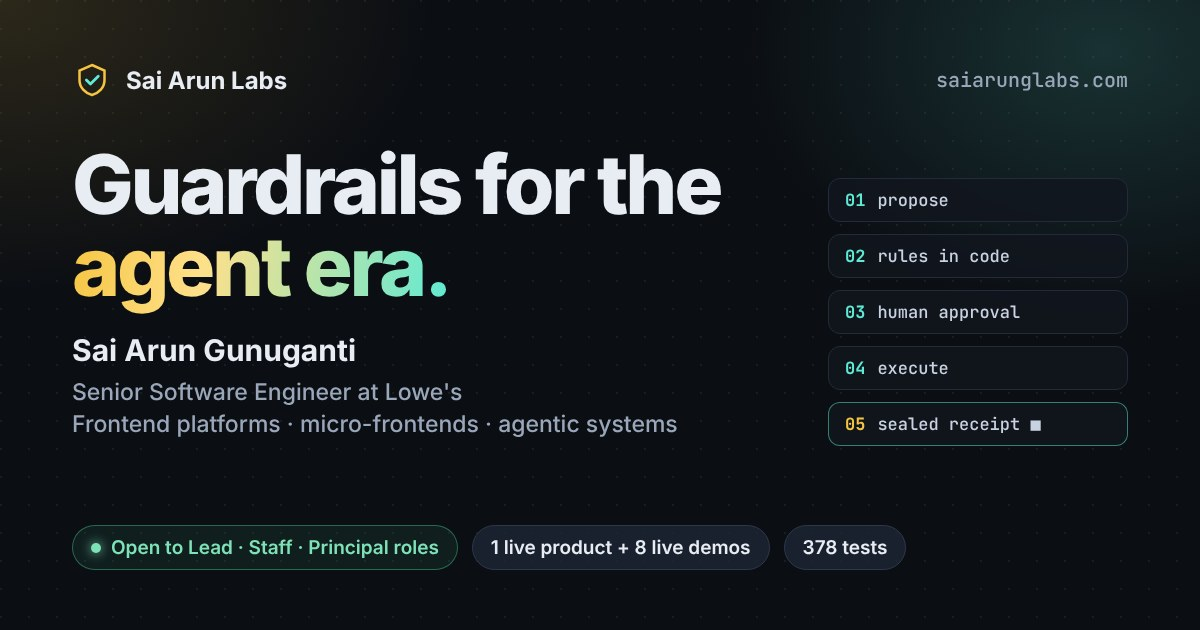
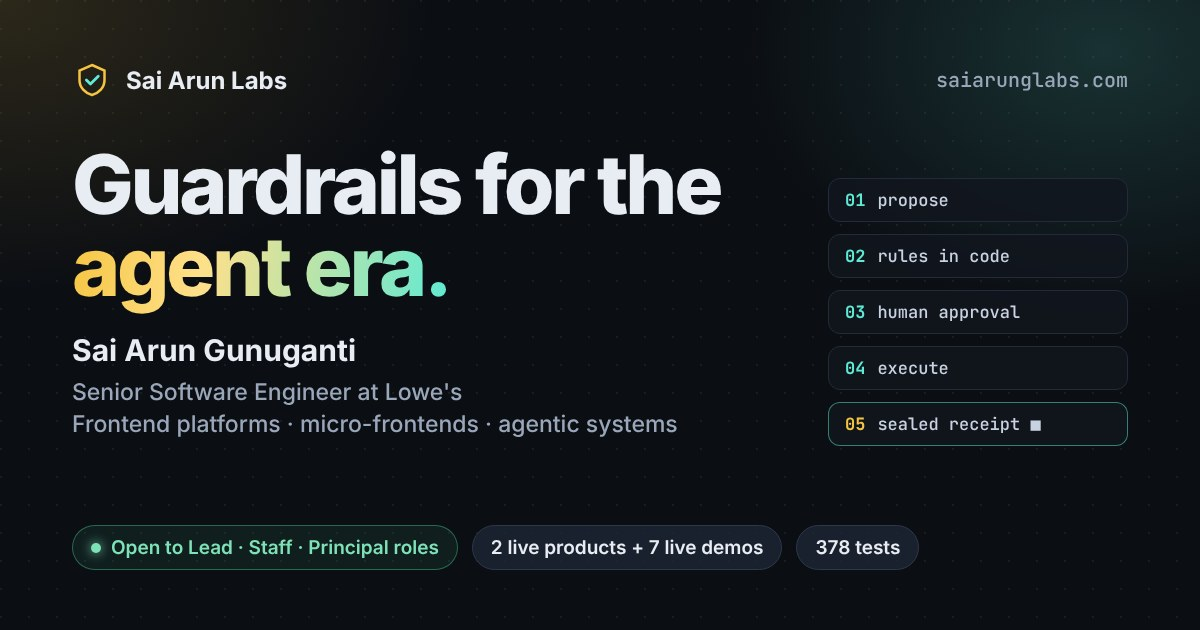
JobProof: archive card now describes the live product (early access)
- Card: Angi lead-credit tracker, live product and free checker links, 61 tests
- Archive intro, footer and stats (2 live products + 7 demos) updated
- Link preview image regenerated with the new counts

Claude-Session: https://claude.ai/code/session_01HzHLZjxcvi9w3Y5BZCGHBb

Changed region(s): [[0.4008, 0.8143, 0.7708, 0.9048]]

diff --git a/index.html b/index.html
@@ -354,7 +354,7 @@
     <div class="stat"><div class="n" data-count="20" data-suffix="+">20+</div><div class="l">Lowe's teams integrate the Customer Lookup MFE I own</div></div>
     <div class="stat"><div class="n" data-count="378">378</div><div class="l">tests across eight sector products, all passing</div></div>
     <div class="stat"><div class="n" data-count="6">6</div><div class="l">agent-framework integrations for Sealgraf, live-tested end-to-end</div></div>
-    <div class="stat"><div class="n"><span data-count="1">1</span><small> + </small><span data-count="8">8</span></div><div class="l">live product + live public demos</div></div>
+    <div class="stat"><div class="n"><span data-count="2">2</span><small> + </small><span data-count="7">7</span></div><div class="l">live products + live public demos</div></div>
   </div>
 
   <section id="lowes" class="reveal">
@@ -627,17 +627,19 @@ make demo      <span class="c"># runs the wedge end-to-end, no LLM key</span></p
   <section id="archive">
     <p class="eyebrow reveal">// project archive</p>
     <h2 class="reveal">The rest of the lab.</h2>
-    <p class="sub reveal">The rest of the lab — working prototypes on synthetic data, each with a live demo. (AgentFoundry is available as a walkthrough on request.)</p>
+    <p class="sub reveal">The rest of the lab: JobProof, now a live product in early access, and working prototypes on synthetic data, each with a live demo. (AgentFoundry is available as a walkthrough on request.)</p>
     <div class="arch">
+      <article class="card reveal" style="grid-column:1/-1">
+        <div class="cardhead"><h3>JobProof</h3><span class="chip live">Live product · early access</span></div>
+        <p class="sector">Home services · Angi lead credits</p>
+        <p>Credit tracker for contractors who buy Angi leads. Every lead is checked against Angi's published credit rules as they stood on the charge date (bad contact info, out of area, services not offered, duplicates), with the 24-hour call rule and the 30-day request deadline tracked in code. JobProof drafts each credit request for the pro to submit and tracks credits to their six-month expiry. It never logs in to Angi.</p>
+        <p>Grown from the sandbox prototype into a production app: FastAPI and SQLite, hashed sessions, a tamper-evident activity log, a free no-sign-up credit checker, reminder emails and Stripe billing. Its rules are labeled as not yet verified in a live Angi account.</p>
+        <div class="foot"><span><a href="https://jobproof-live.onrender.com">Live product →</a> · <a href="https://jobproof-live.onrender.com/check">Free checker →</a></span><span class="chip t">61 tests</span></div>
+      </article>
       <article class="card reveal">
         <h3>Dossier</h3><p class="sector">Short-term rentals &amp; travel</p>
         <p>Guest-side recovery agent for short-term rentals &amp; travel: booking verified, evidence sealed in a vault at booking time, payment messages authenticated against hard rules in code (it will never call an off-platform payment "safe"), claims filed inside platform windows behind approval, refunds tracked to recovered.</p>
         <div class="foot"><a href="https://dossier-live.onrender.com">Live demo →</a><span class="chip t">33/33</span></div>
-      </article>
-      <article class="card reveal">
-        <h3>JobProof</h3><p class="sector">Local-services marketplaces</p>
-        <p>Two-sided evidence layer for local-services marketplaces: pros get every lead charge audited against the platform's own rules, with filings made only on approval and counted as filed only with a confirmation artifact; consumers get a signed scope record before work begins.</p>
-        <div class="foot"><a href="https://jobproof-live.onrender.com">Live demo →</a><span class="chip t">47/47</span></div>
       </article>
       <article class="card reveal">
         <h3>Reclaim</h3><p class="sector">Consumer banking &amp; rewards</p>
@@ -683,7 +685,7 @@ make demo      <span class="c"># runs the wedge end-to-end, no LLM key</span></p
   <footer>
     <p>Sai Arun Labs is the product lab of Sai Arun Gunuganti — Senior Software Engineer (Lowe's Companies), Harrisburg, NC. Open to Lead, Staff, and Principal engineering roles.</p>
     <p>Prototypes run on synthetic data; names marked as working labels are provisional.</p>
-    <p>Doorway, Dossier, ListProof, JobProof, Reclaim, Refile, Destorm and ModSeal all run as live public demos; AgentFoundry is available as a walkthrough on request.</p>
+    <p>Doorway, Dossier, ListProof, Reclaim, Refile, Destorm and ModSeal run as live public demos; JobProof is a live product in early access; AgentFoundry is available as a walkthrough on request.</p>
   </footer>
 
 </div>
